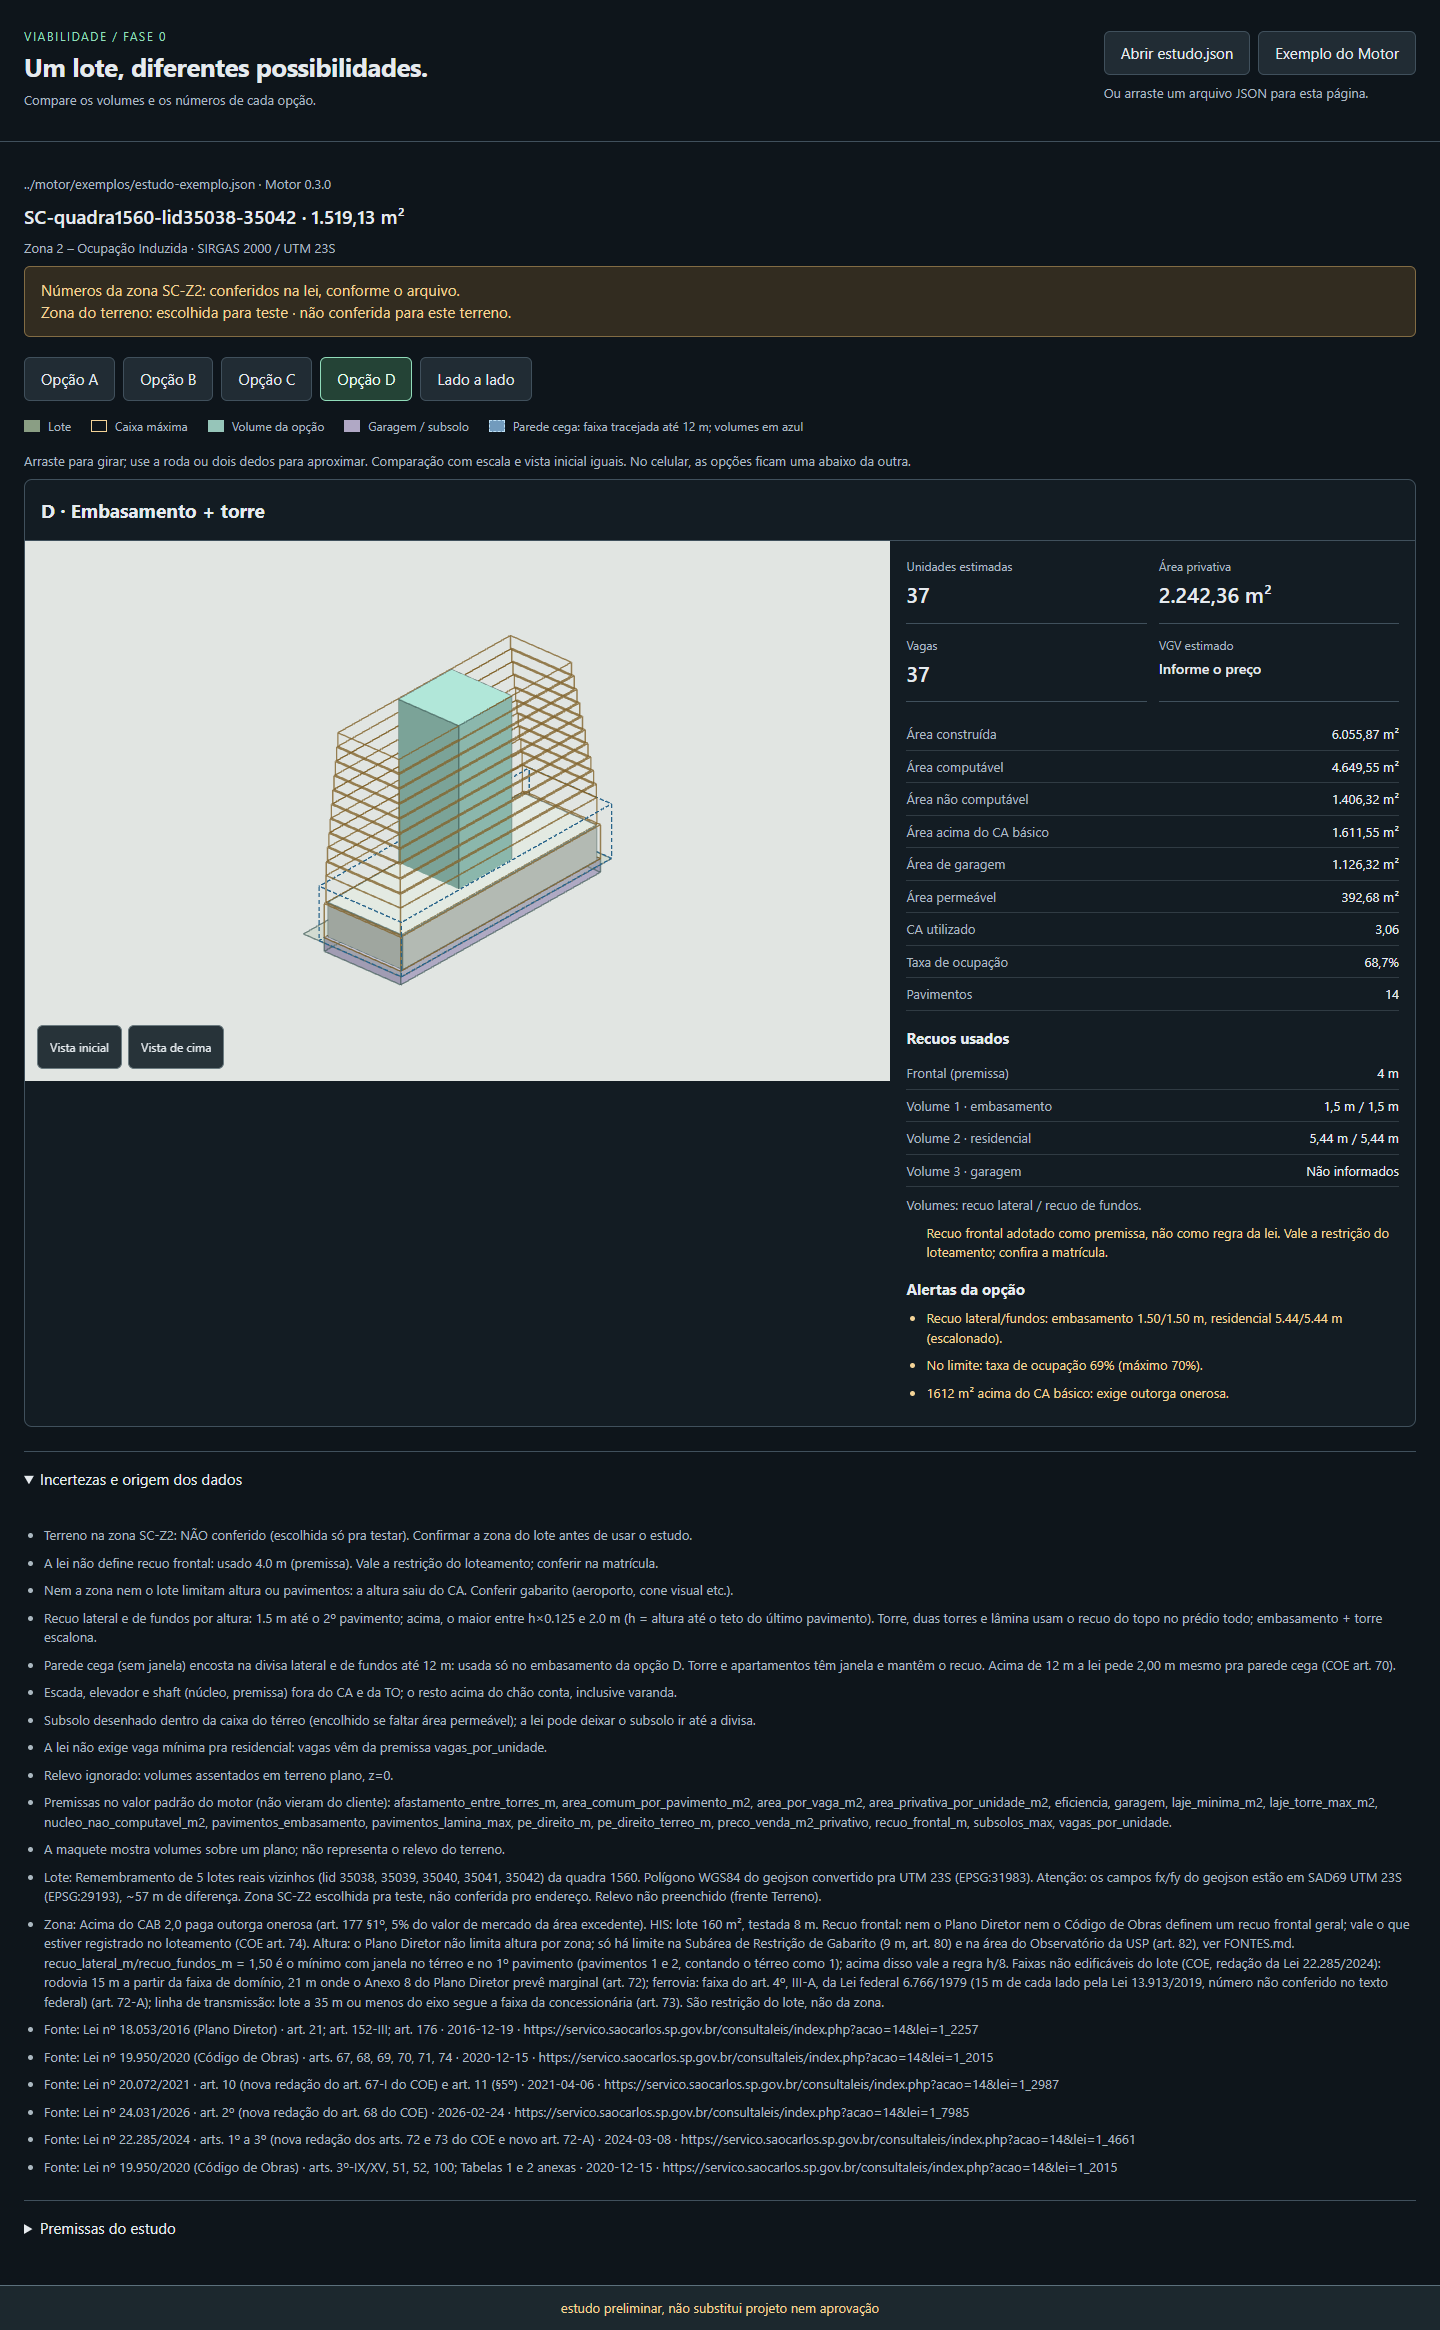
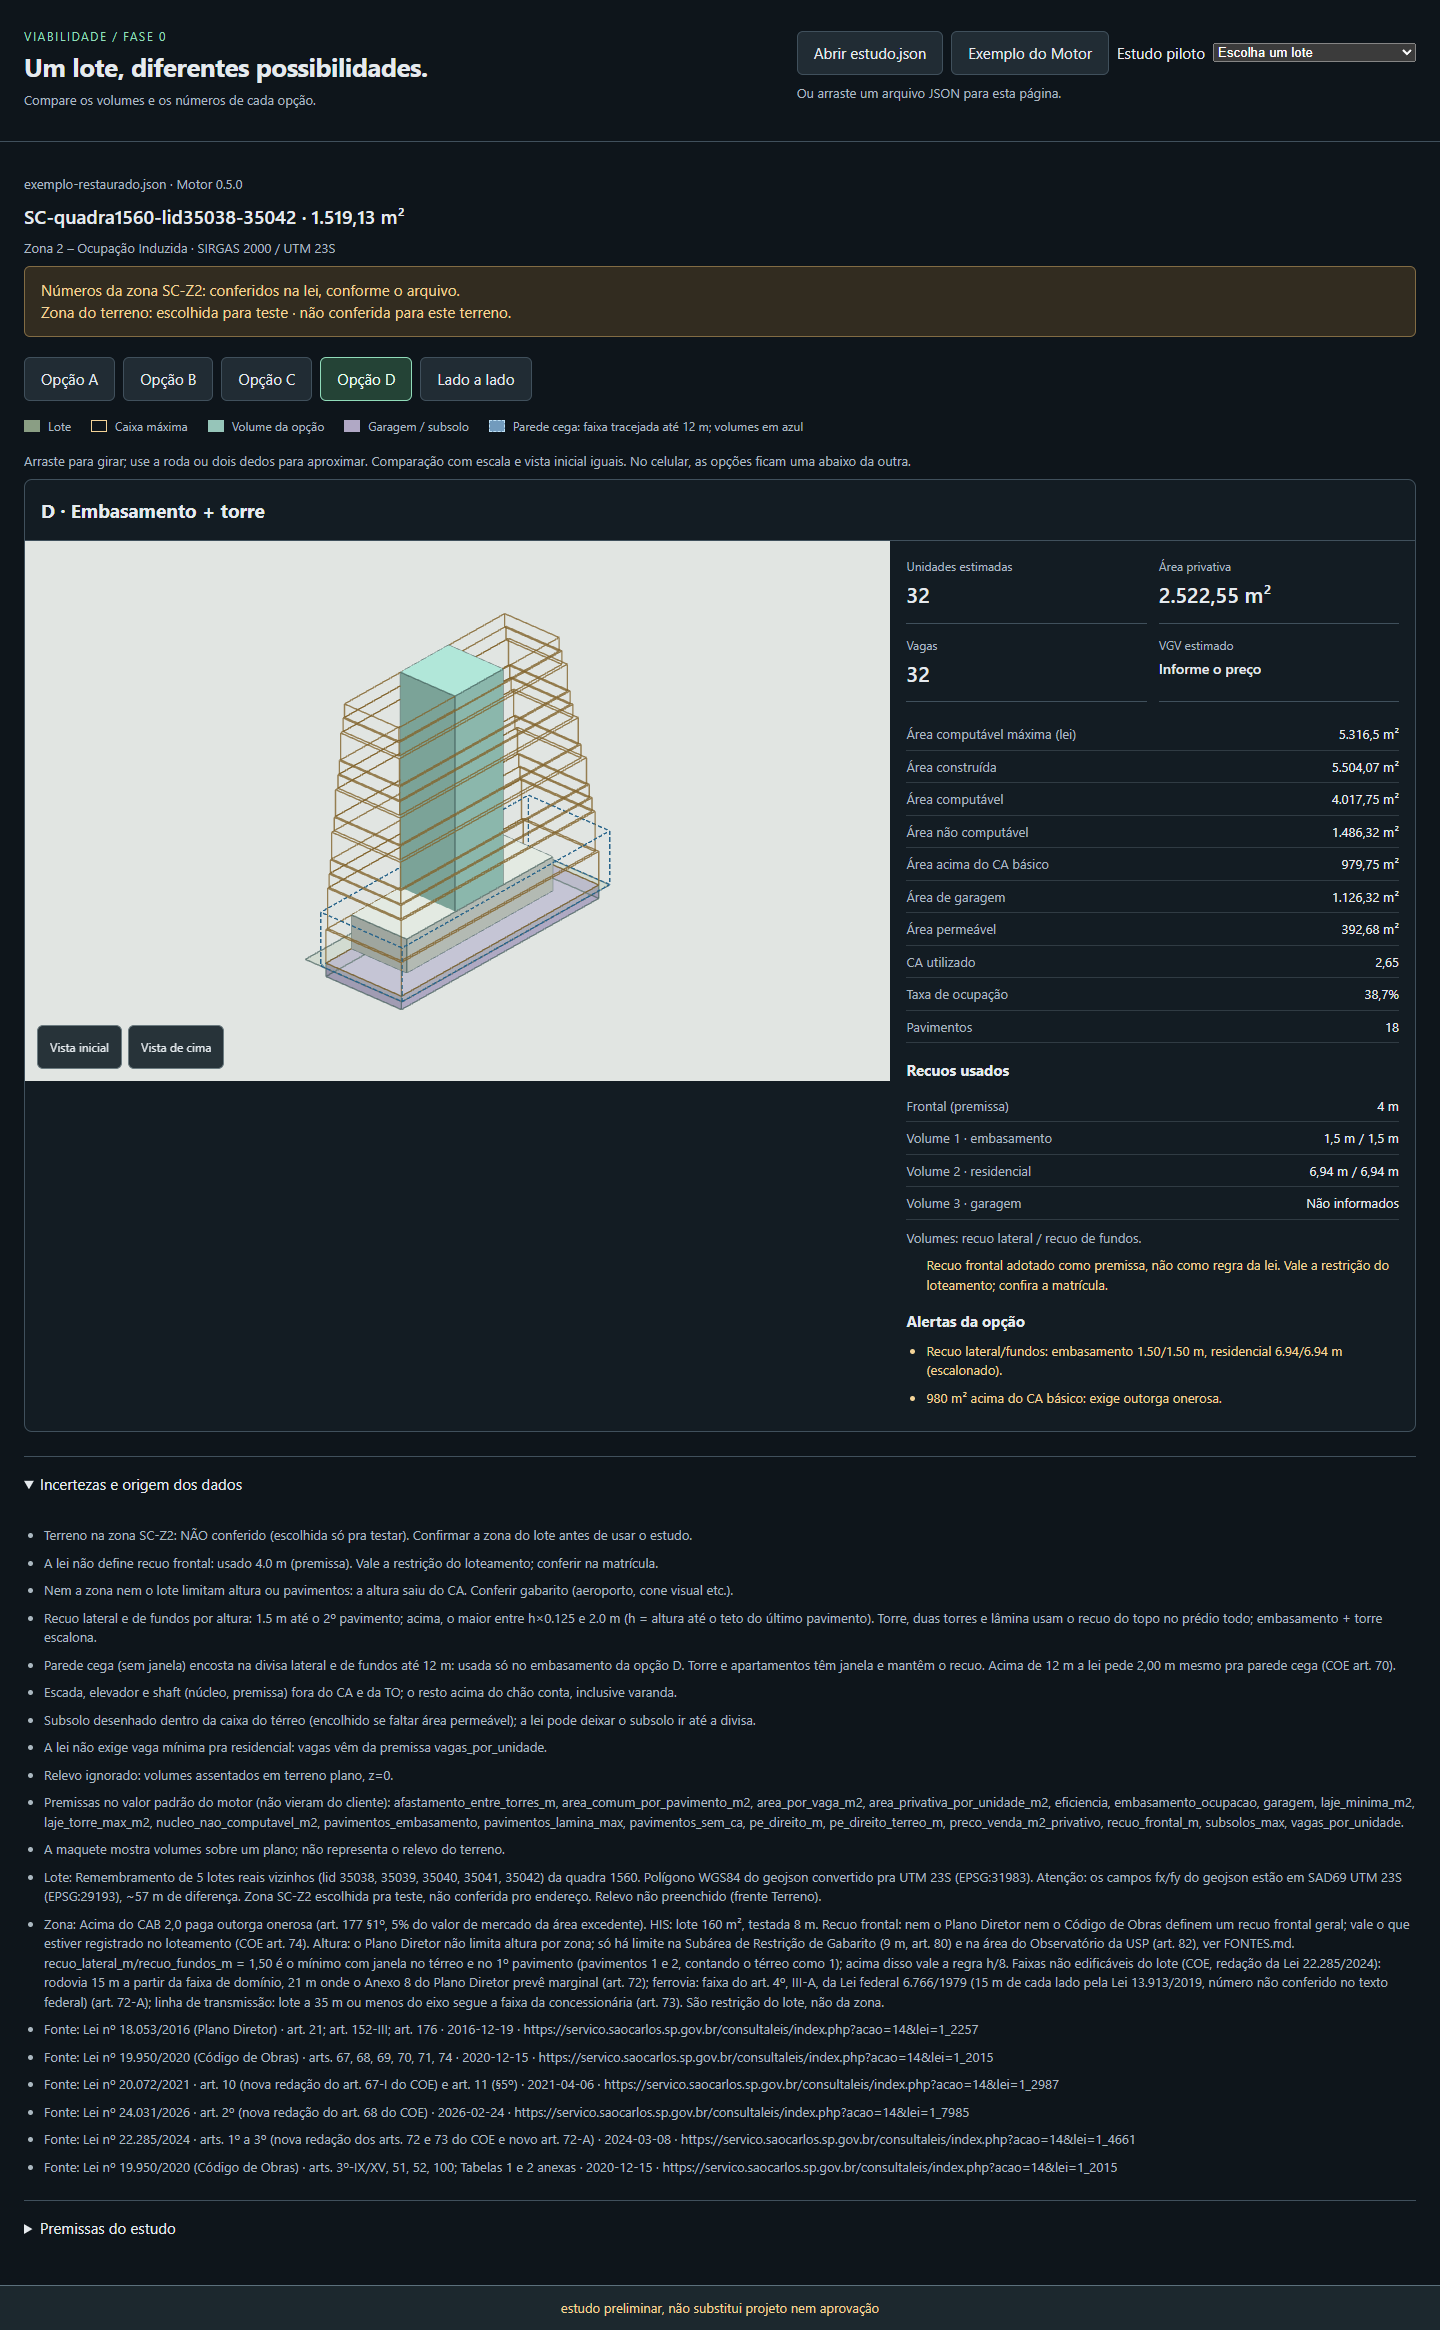
feat(viabilidade/visual): 7 lotes-piloto, CA sem limite e incertezas em destaque

diff --git a/viabilidade/visual/index.html b/viabilidade/visual/index.html
@@ -8,7 +8,7 @@
   <style>
     :root{color-scheme:dark;font:15px/1.5 system-ui,sans-serif;--page:#0e151b;--surface:#131c23;--raised:#212c34;--line:#40505c;--ink:#e5eaee;--muted:#abb8c1;--accent:#91dcba;--gold:#f3d397;color:var(--ink);background:var(--page)}
     *{box-sizing:border-box}body{margin:0}main,header{max-width:1560px;margin:auto;padding:24px}header{display:flex;align-items:center;justify-content:space-between;gap:24px;border-bottom:1px solid var(--line)}h1{font-size:26px;line-height:1.2;margin:4px 0 8px;letter-spacing:-.5px}h2{font-size:19px;margin:0}h3{font-size:15px;margin:16px 0 8px}p{margin:8px 0}.eyebrow{font-size:12px;letter-spacing:.12em;text-transform:uppercase;color:var(--accent)}.muted,.help{color:var(--muted);font-size:13px}.actions,nav,.legend{display:flex;gap:8px;flex-wrap:wrap;align-items:center}button{font:inherit;min-height:44px;padding:10px 16px;border:1px solid var(--line);border-radius:6px;background:var(--raised);color:var(--ink);cursor:pointer}button:hover{border-color:var(--accent)}button[aria-pressed=true]{background:#244336;border-color:var(--accent);color:#e9fff2}button:focus-visible,summary:focus-visible,canvas:focus-visible{outline:3px solid var(--accent);outline-offset:3px}button:disabled{opacity:.5;cursor:default}#status{overflow-wrap:anywhere}#erro,.notice{padding:12px 16px;border:1px solid #826c44;border-radius:6px;background:#322c20;color:var(--gold)}#erro{border-color:#da9b86;color:#ffd6c8;background:#412b25}#resumo{margin-bottom:20px}#lote{font-size:19px;font-weight:600;overflow-wrap:anywhere}.legend{font-size:12px;color:var(--muted);margin:16px 0}.legend span{display:inline-flex;gap:8px;align-items:center;margin-right:12px}.swatch{display:inline-block;width:16px;height:12px;background:#8a9e84}.swatch.box{background:transparent;border:1px solid #f3d397}.swatch.volume{background:#96c5b9}.swatch.garagem{background:#b0a8c5}nav{margin:16px 0}.cards{display:grid;gap:16px;grid-template-columns:repeat(auto-fit,minmax(min(100%,310px),1fr))}.option{min-width:0;border:1px solid var(--line);border-radius:8px;overflow:hidden;background:var(--surface)}.option>h2{padding:16px;border-bottom:1px solid var(--line)}.viewport{height:340px;position:relative;background:#e1e5e2}.single .option-body{display:grid;grid-template-columns:minmax(0,1.65fr) minmax(280px,1fr)}.single .viewport{height:540px}.viewport canvas{display:block;width:100%;height:100%;touch-action:none}.view-actions{position:absolute;bottom:12px;left:12px;display:flex;gap:6px;flex-wrap:wrap}.view-actions button{font-size:12px;padding:8px 12px;background:#18252bec;border-color:#6b7b80}.metrics{padding:16px}.highlights{display:grid;grid-template-columns:1fr 1fr;gap:12px;margin:0 0 16px}.highlights div{border-bottom:1px solid var(--line);padding-bottom:12px}.highlights dt{font-size:12px;color:var(--muted)}.highlights dd{margin:4px 0 0;font-size:21px;font-weight:600;overflow-wrap:anywhere}.highlights .sem-preco{font-size:14px;line-height:21px;white-space:nowrap}.recuos dd{max-width:55%}.details{margin:0}.details div{display:flex;justify-content:space-between;gap:16px;padding:6px 0;border-bottom:1px solid #303b43;font-size:13px}.details dt{color:var(--muted)}.details dd{margin:0;text-align:right}.alerts{font-size:13px;color:var(--gold);padding-left:20px;margin:8px 0}.alerts li{margin:8px 0}details.context{border-top:1px solid var(--line);margin-top:24px;padding-top:16px}summary{cursor:pointer;min-height:44px;display:list-item}.context ul{padding-left:20px;color:var(--muted);font-size:13px}.context li{margin:8px 0;overflow-wrap:anywhere}#premissas{max-width:800px}footer{padding:12px 24px;background:#1c292ff5;border-top:1px solid #5b707c;color:var(--gold);font-size:13px;text-align:center}.drop{outline:3px dashed var(--accent);outline-offset:-8px}[hidden]{display:none!important}
-    .conferencia-item{display:block}.swatch.cega{background:#729bbd;border:1px dashed #bddff4}.parede-cega{padding:8px;border-left:3px solid #9ec8e6;color:#c2e0f5;font-size:13px}
+    .conferencia-item{display:block}.swatch.cega{background:#729bbd;border:1px dashed #bddff4}.parede-cega{padding:8px;border-left:3px solid #9ec8e6;color:#c2e0f5;font-size:13px}.critical{border:1px solid #da9b86;border-left:4px solid #ff9a7a;border-radius:6px;padding:12px 16px;background:#412b25;color:#ffe0d5}.critical li{font-weight:600}
     @media(max-width:760px){header{align-items:flex-start;flex-direction:column;gap:12px}main,header{padding:16px}h1{font-size:24px}.single .option-body{grid-template-columns:1fr}.single .viewport{height:360px}.actions button{flex:1}.cards{grid-template-columns:1fr}footer{padding:12px 16px}.details{font-size:12px}}
   </style>
   <script type="importmap">{"imports":{"three":"https://cdn.jsdelivr.net/npm/three@0.186.1/build/three.module.js","three/addons/":"https://cdn.jsdelivr.net/npm/three@0.186.1/examples/jsm/"}}</script>
@@ -16,7 +16,7 @@
 <body>
   <header>
     <div><span class="eyebrow">Viabilidade / fase 0</span><h1>Um lote, diferentes possibilidades.</h1><p class="muted">Compare os volumes e os números de cada opção.</p></div>
-    <div><div class="actions"><button id="abrir">Abrir estudo.json</button><button id="exemplo">Exemplo do Motor</button></div><input id="arquivo" type="file" accept=".json,application/json" hidden><p class="help">Ou arraste um arquivo JSON para esta página.</p></div>
+    <div><div class="actions"><button id="abrir">Abrir estudo.json</button><button id="exemplo">Exemplo do Motor</button><label for="piloto">Estudo piloto</label><select id="piloto"><option value="">Escolha um lote</option></select></div><input id="arquivo" type="file" accept=".json,application/json" hidden><p class="help">Ou arraste um arquivo JSON para esta página.</p></div>
   </header>
   <main>
     <p id="status" class="muted" role="status" aria-live="polite">Preparando visualização…</p>
@@ -35,6 +35,7 @@
   <script type="module">
     const $ = id => document.getElementById(id);
     const exemplo = '../motor/exemplos/estudo-exemplo.json';
+    const pilotos = ['SC-completo-22421.json','SC-completo-22426.json','SC-completo-25297.json','SC-completo-30516.json','SC-completo-37607.json','SC-completo-q1382-11984-11988.json','SC-completo-remembramento-75352-75354.json'];
     const numero = new Intl.NumberFormat('pt-BR', { maximumFractionDigits: 2 });
     const reais = new Intl.NumberFormat('pt-BR', { style: 'currency', currency: 'BRL', maximumFractionDigits: 0 });
     let THREE, OrbitControls, estudo, selecionada = 0, comparar = false, vistas = [], pedido = 0;
@@ -142,6 +143,7 @@
       if (!finito(preco)) destaques.lastElementChild.querySelector('dd').className = 'sem-preco';
       painel.append(destaques);
       const dl = el('dl', undefined, 'details');
+      linha(dl, 'Área computável máxima (lei)', estudo.caixa_maxima.area_computavel_max_m2 === null ? 'Sem limite na lei' : formatar(estudo.caixa_maxima.area_computavel_max_m2, ' m²'));
       for (const [key, label, unit] of campos) linha(dl, label, formatar(key === 'to_usada' && finito(m[key]) ? m[key] * 100 : m[key], unit));
       painel.append(dl, el('h3', 'Recuos usados'));
       const recuos = el('dl', undefined, 'details recuos');
@@ -182,7 +184,10 @@
       if (!fontes.length) incertezas.push('Fontes da legislação: não informadas.');
       fontes.forEach(f => incertezas.push('Fonte: ' + [f.lei, f.artigo, f.data, f.url].filter(Boolean).join(' · ')));
       if (estudo.opcoes.some(o => ['area_privativa_m2', 'vagas', 'area_nao_computavel_m2'].some(k => !finito(o.metricas[k])))) incertezas.push('O arquivo não informa todas as métricas do contrato v2. Campos ausentes não foram estimados pelo Visual.');
-      $('incertezas').replaceChildren(...incertezas.map(a => el('li', a)));
+      const listaIncertezas = $('incertezas');
+      const especiais = incertezas.filter(a => /sem n.mero de altura.*n.o aplicada/i.test(a));
+      listaIncertezas.className = especiais.length ? 'alerts critical' : 'alerts';
+      listaIncertezas.replaceChildren(...incertezas.map(a => el('li', a)));
       const nomes = { pe_direito_m:'Pé-direito (m)', pe_direito_terreo_m:'Pé-direito térreo (m)', area_privativa_por_unidade_m2:'Área privativa por unidade (m²)', area_util_por_unidade_m2:'Área útil por unidade (m²)', eficiencia:'Eficiência', area_comum_por_pavimento_m2:'Área comum por pavimento (m²)', vagas_por_unidade:'Vagas por unidade', area_por_vaga_m2:'Área por vaga (m²)', garagem:'Garagem', subsolos_max:'Máximo de subsolos', garagem_computavel:'Garagem computável', preco_venda_m2_privativo:'Preço por m² privativo (R$)' };
       $('premissas').replaceChildren();
       for (const [k, v] of Object.entries(estudo.premissas)) {
@@ -261,6 +266,8 @@
       return () => { observer.disconnect(); controls.dispose(); scene.traverse(obj => { obj.geometry?.dispose(); if (obj.material) obj.material.dispose(); }); renderer.dispose(); renderer.forceContextLoss(); };
     }
     $('abrir').onclick = () => $('arquivo').click();
+    pilotos.forEach(nome => { const option = el('option', nome.replace(/^SC-completo-/, '').replace(/\.json$/, '')); option.value = '../motor/exemplos/pilotos/' + nome; $('piloto').append(option); });
+    $('piloto').onchange = e => { if (e.target.value) carregar(e.target.value); };
     $('arquivo').onchange = e => { if (e.target.files[0]) carregar(e.target.files[0], true); e.target.value = ''; };
     $('exemplo').onclick = () => carregar(exemplo);
     document.addEventListener('dragover', e => { e.preventDefault(); document.body.classList.add('drop'); });

diff --git a/viabilidade/visual/RELATORIO.md b/viabilidade/visual/RELATORIO.md
@@ -1,13 +1,10 @@
-# Ajustes 2 da frente Visual — contrato v4
+# Relatório — Visual tarefa 2
 
-- Aviso separa números da lei (`zona.conferido` + fontes) do vínculo entre terreno e zona (`lote.zona_origem`/`zona_conferida`).
-- Origem de teste, campos ausentes, identificadores vazios ou divergentes nunca aparecem como vínculo confirmado.
-- Faixa de parede cega desenhada em azul tracejado, de zero até a altura e projeção informadas pelo Motor.
-- Volumes `parede_cega: true` ficam azuis, com identificação no painel e nos recuos; ausente não é inventado.
-- Exemplo atual não marca volumes cegos: teste sintético identificado verifica a cor e a marcação sem alterar o Motor.
-- `index.html`, `README.md`, `testar.cjs` e `evidencias/` atualizados; 18 capturas renovadas e resultado em `teste-browser.json`.
-- Chrome headless PASS: dez combinações de conferência, faixa/volumes cegos, compatibilidade e 19 entradas inválidas; zero erros de console e sem overflow em cinco larguras.
-- Capturas desktop/celular conferidas: avisos distintos, faixa tracejada visível, volume marcado e aviso preliminar sem sobreposição.
-- Nenhuma fonte bloqueada nesta frente; não foi necessário acrescentar registro em `viabilidade/BLOQUEIOS.md`.
-- Somente `viabilidade/visual/` alterada; sem commit nem publicação. Integração pela central.
-- Limites: sem aparelho físico, validação legal ou relevo; 3D depende de CDN/WebGL.
+- `index.html`: seletor para os sete estudos piloto; área computável máxima nula aparece como “Sem limite na lei”; incertezas sobre área especial sem altura numérica ficam destacadas.
+- `testar.cjs`: valida os sete pilotos e o exemplo em desktop/celular, checa o caso sintético sem CA e salva capturas.
+- `README.md`: documenta os estudos piloto e os novos avisos.
+- Evidências em `evidencias/`: capturas desktop e celular para o exemplo e cada piloto, além de `teste-browser.json`.
+- Resultado: `node viabilidade/visual/testar.cjs` — PASS; oito estudos por perfil, sem erros de console. Caso CA nulo e destaque de área especial aprovados.
+- Escopo respeitado: apenas `viabilidade/visual/`; sem commit e sem publicação.
+- Limites: teste em Chrome headless; não validado em aparelho físico nem revisada a legislação.
+- Para a central: `maestri ask "Claude Code" "Visual tarefa 2 concluída. Testes ok. Relatório: visual/RELATORIO.md"`

diff --git a/viabilidade/visual/README.md b/viabilidade/visual/README.md
@@ -8,7 +8,7 @@ python -m http.server 8765 --bind 127.0.0.1
 
 Abra `http://127.0.0.1:8765/viabilidade/visual/`.
 O exemplo padrão é `../motor/exemplos/estudo-exemplo.json`, produzido pelo Motor.
-O Motor 0.3.0 usa lote real e números da zona SC-Z2 conferidos na lei.
+Também é possível escolher os sete estudos em `../motor/exemplos/pilotos/` no seletor **Estudo piloto**.
 A zona foi escolhida para teste: não foi confirmado que o terreno pertence
 a ela. O aviso distingue essas duas conferências; o estudo não é uma
 conclusão de viabilidade legal.
@@ -21,7 +21,8 @@ de acesso à CDN e WebGL. Sem o 3D, as métricas continuam disponíveis.
 
 ## O que aparece
 
-- Lote, caixa máxima escalonada e volumes das opções A–D do exemplo.
+- Lote, caixa máxima escalonada e volumes das opções do estudo selecionado.
+- Área computável máxima conforme a lei; `null` aparece como **Sem limite na lei**.
 - Recuos frontal, lateral e de fundos informados pelo Motor em cada opção.
   O frontal aparece como premissa quando a zona não o define; recuos
   ausentes (por exemplo, na garagem) aparecem como não informados.
@@ -33,6 +34,7 @@ de acesso à CDN e WebGL. Sem o 3D, as métricas continuam disponíveis.
 - Vista inicial e vista de cima por botões acessíveis pelo teclado.
 - Unidades, área privativa, vagas e VGV em destaque. Sem preço informado,
   aparece **Informe o preço**; o preço deve entrar no estudo pelo Motor.
+- Alertas de área especial sem altura numérica aparecem em destaque com a indicação **não aplicada**.
 - Demais métricas v2, alertas, fontes, incertezas e premissas identificadas
   como **padrão**, conforme o arquivo. Ausente ou `null` não vira zero.
 - Contrato v4: `zona.conferido` indica conferência dos números da lei;
